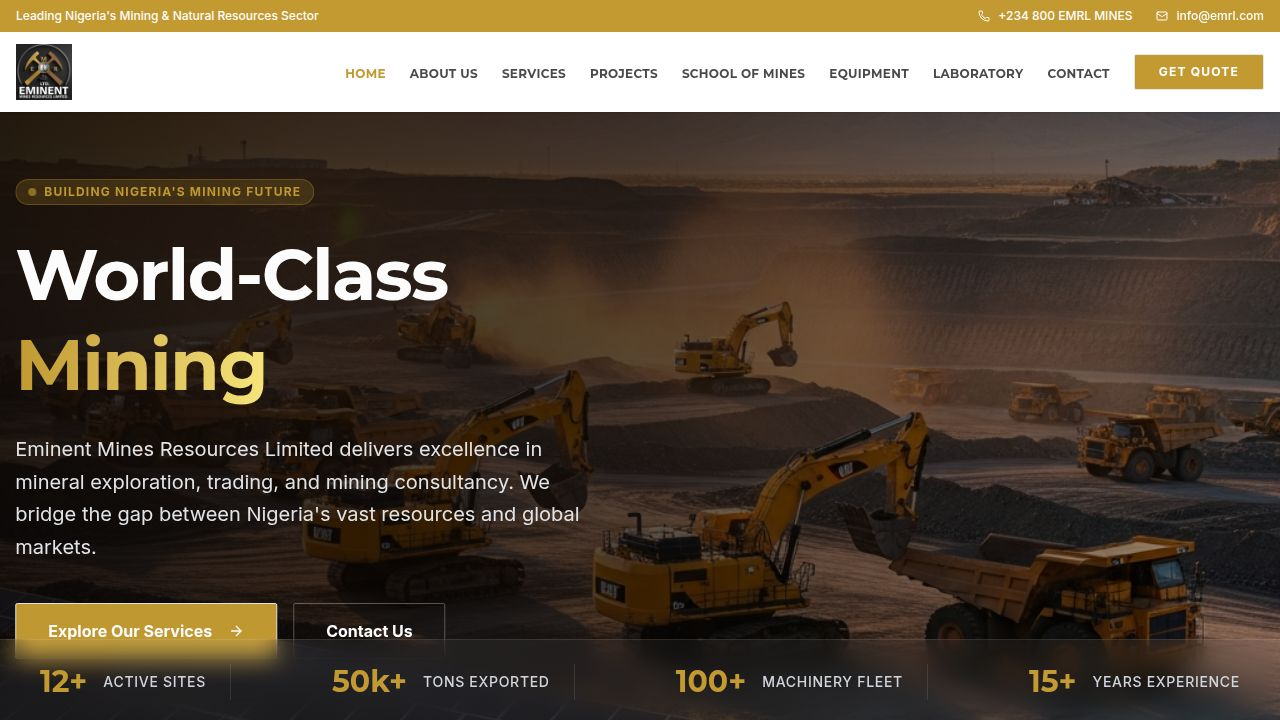
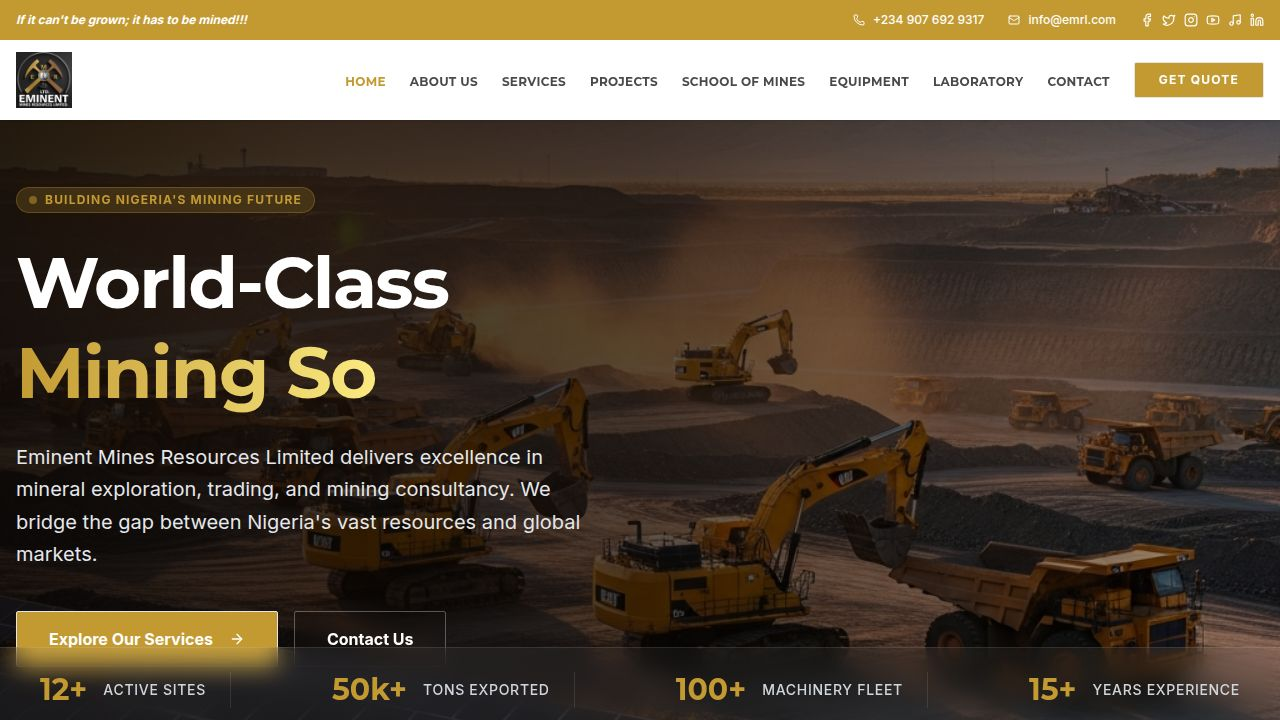
Add explosives management service and update team information
Add a new page for Explosives Management services, update the Home page to include this service, and enhance the About page with a detailed team section. Also, update the Water Engineering image.

Replit-Commit-Author: Agent
Replit-Commit-Session-Id: c283b640-2d67-4469-ac15-ef5560740ef6
Replit-Commit-Checkpoint-Type: full_checkpoint
Replit-Commit-Event-Id: 46e6ac79-3286-4075-8275-21c056ac1e64
Replit-Commit-Screenshot-Url: https://storage.googleapis.com/screenshot-production-us-central1/f175d7f7-50bc-4880-abd5-1b3013c2f9b2/c283b640-2d67-4469-ac15-ef5560740ef6/zpQz2Ew
Replit-Helium-Checkpoint-Created: true

diff --git a/client/src/pages/About.tsx b/client/src/pages/About.tsx
@@ -1,8 +1,60 @@
 import { Navbar } from "@/components/layout/Navbar";
 import { Footer } from "@/components/layout/Footer";
-import { CheckCircle2, User } from "lucide-react";
+import { CheckCircle2 } from "lucide-react";
+import ceoImage from "@assets/Engr._Jamiu_Rasheed_odofin_Founder_CEO_1764980188188.png";
+import ctoImage from "@assets/Mr._Abdullahi_Mahmud_Co-founder_CTOBR&D_1766574911792.png";
+import csoImage1 from "@assets/Engr._Ola_Rokeeb_Co-founder_CSO_(2)_1766574916972.png";
+import cmoImage from "@assets/Engr._Abdulmujeeb_Ramadan_Sodiq_Co-founder_CMO-_1766574924512.png";
+import cloImage from "@assets/Mallam_Abdulazeez_Isa_Co-founder_CLO-removebg-preview_1766574935845.png";
+import cooImage from "@assets/Engr_Ibrahim_Magagi_Abdulbaki_Founder_COO-_1766574928762.png";
+import csoImage2 from "@assets/Engr._Abdulsalam_Abdulrahman_Adeshina_Co-founder_CSO_(2)_1766574946072.png";
 
 export default function About() {
+  const teamMembers = [
+    {
+      name: "Engr. Ibrahim Magagi Abdulbaki",
+      title: "Founder, Chief Operating Officer",
+      role: "COO",
+      image: cooImage,
+      bio: "Visionary leader driving operational excellence and strategic execution across all divisions."
+    },
+    {
+      name: "Mr. Abdullahi Mahmud",
+      title: "Co-founder, Chief Technology Officer",
+      role: "CTO/BR&D",
+      image: ctoImage,
+      bio: "Technology innovator advancing mining solutions through modern geospatial and digital systems."
+    },
+    {
+      name: "Engr. Ola Rokeeb",
+      title: "Co-founder, Chief Sustainability Officer",
+      role: "CSO",
+      image: csoImage1,
+      bio: "Environmental steward ensuring sustainable and responsible mining practices company-wide."
+    },
+    {
+      name: "Engr. Abdulmujeeb Ramadan Sodiq",
+      title: "Co-founder, Chief Marketing Officer",
+      role: "CMO",
+      image: cmoImage,
+      bio: "Strategic marketer building EMRL's presence in Nigerian and international mining markets."
+    },
+    {
+      name: "Mallam Abdulazeez Isa",
+      title: "Co-founder, Chief Legal Officer",
+      role: "CLO",
+      image: cloImage,
+      bio: "Legal expert ensuring regulatory compliance and protecting company interests in all operations."
+    },
+    {
+      name: "Engr. Abdulsalam Abdulrahman Adeshina",
+      title: "Co-founder, Chief Safety Officer",
+      role: "CSO",
+      image: csoImage2,
+      bio: "Safety champion maintaining zero-harm culture and leading occupational health initiatives."
+    }
+  ];
+
   return (
     <div className="min-h-screen flex flex-col font-sans bg-white">
       <Navbar />
@@ -44,19 +96,30 @@ export default function About() {
         </div>
       </section>
 
-      {/* Team Section (Placeholder) */}
+      {/* Team Section */}
       <section className="py-20 bg-zinc-50">
         <div className="container mx-auto px-4">
-          <h2 className="text-3xl font-heading font-bold text-foreground mb-12 text-center">Leadership Team</h2>
-          <div className="grid grid-cols-1 sm:grid-cols-2 lg:grid-cols-4 gap-8">
-            {[1, 2, 3, 4].map((i) => (
-              <div key={i} className="bg-white p-6 rounded-sm shadow-sm text-center group">
-                <div className="w-32 h-32 bg-zinc-200 rounded-full mx-auto mb-6 flex items-center justify-center group-hover:bg-primary/10 transition-colors">
-                  <User className="h-12 w-12 text-zinc-400 group-hover:text-primary" />
+          <div className="max-w-3xl mx-auto text-center mb-16">
+            <h2 className="text-primary font-bold uppercase tracking-widest text-sm mb-4">Leadership</h2>
+            <h3 className="text-3xl md:text-4xl font-heading font-bold text-foreground mb-6">Our Executive Team</h3>
+            <p className="text-muted-foreground text-lg">Experienced professionals dedicated to advancing Nigeria's mining sector with integrity, innovation, and excellence.</p>
+          </div>
+
+          <div className="grid grid-cols-1 sm:grid-cols-2 lg:grid-cols-3 gap-8">
+            {teamMembers.map((member, i) => (
+              <div key={i} className="bg-white rounded-sm shadow-md overflow-hidden group hover:shadow-xl transition-all duration-300 hover:-translate-y-1">
+                <div className="h-64 overflow-hidden bg-zinc-200">
+                  <img 
+                    src={member.image} 
+                    alt={member.name}
+                    className="w-full h-full object-cover group-hover:scale-105 transition-transform duration-500"
+                  />
                 </div>
-                <h4 className="font-bold text-lg text-foreground">Executive Name</h4>
-                <p className="text-sm text-primary font-medium mb-4">Position Title</p>
-                <p className="text-xs text-muted-foreground">Experienced professional with over 15 years in the mining sector.</p>
+                <div className="p-6">
+                  <h4 className="text-lg font-bold font-heading text-foreground mb-1">{member.name}</h4>
+                  <p className="text-sm text-primary font-bold uppercase tracking-widest mb-3">{member.title}</p>
+                  <p className="text-sm text-muted-foreground leading-relaxed">{member.bio}</p>
+                </div>
               </div>
             ))}
           </div>

diff --git a/client/src/pages/Home.tsx b/client/src/pages/Home.tsx
@@ -8,6 +8,8 @@ import machineryImage from "@assets/generated_images/heavy_mining_machinery_flee
 import tradingImage from "@assets/generated_images/raw_minerals_pile_close_up.png";
 import consultancyImage from "@assets/generated_images/nigerian_mining_consultants_in_boardroom.png";
 import schoolImage from "@assets/generated_images/nigerian_mining_students_in_lab.png";
+import waterImage from "@assets/generated_images/water_engineering_borehole_drilling.png";
+import explosivesImage from "@assets/generated_images/cinematic_modern_mining_site_hero_background.png";
 import { Link } from "wouter";
 import { Typewriter } from "@/components/ui/typewriter";
 import { CEOMessage } from "@/components/home/CEOMessage";
@@ -141,9 +143,10 @@ export default function Home() {
               { title: "Mining & Exploration", desc: "Full-scale site development, pit optimization, and mineral extraction.", img: heroImage, link: "/services/mining-quarry" },
               { title: "Mineral Trading", desc: "Sourcing and exporting high-purity Lead, Zinc, Lithium, and Gold.", img: tradingImage, link: "/services/mineral-trading" },
               { title: "Equipment Leasing", desc: "Heavy-duty excavators, crushers, and drilling rigs for rent.", img: machineryImage, link: "/services/machinery-fabrication" },
-              { title: "Water Engineering", desc: "Borehole drilling, hydrological surveys, and water treatment.", img: explorationImage, link: "/services/water-engineering" },
+              { title: "Water Engineering", desc: "Borehole drilling, hydrological surveys, and water treatment.", img: waterImage, link: "/services/water-engineering" },
               { title: "Mining Consultancy", desc: "Regulatory compliance, licensing, and feasibility studies.", img: consultancyImage, link: "/services/consultancy" },
               { title: "School of Mines", desc: "Professional training and certification for the next generation.", img: schoolImage, link: "/school" },
+              { title: "Explosives Management", desc: "Secure storage, handling, and supply of mining explosives and blasting materials.", img: explosivesImage, link: "/services/explosives-management" },
             ].map((service, i) => (
               <div key={i} className="group bg-white rounded-sm border border-border overflow-hidden hover:shadow-lg transition-all duration-300 hover:-translate-y-1">
                 <div className="h-48 overflow-hidden">
@@ -154,7 +157,7 @@ export default function Home() {
                   <p className="text-muted-foreground mb-6 text-sm leading-relaxed">{service.desc}</p>
                   <Link href={service.link}>
                     <a className="inline-flex items-center text-sm font-bold text-primary hover:text-primary/80 uppercase tracking-wide">
-                      Learn More <ArrowRight className="ml-2 h-4 w-4" />
+                      View Details <ArrowRight className="ml-2 h-4 w-4" />
                     </a>
                   </Link>
                 </div>
@@ -177,13 +180,13 @@ export default function Home() {
           </p>
           <div className="flex flex-col sm:flex-row gap-4 justify-center">
             <Link href="/contact">
-              <Button size="lg" className="bg-white text-primary hover:bg-gray-100 font-bold text-base px-10 h-14 shadow-xl border-0">
-                Request a Quote
+              <Button className="bg-white text-primary hover:bg-white/90 font-bold text-base px-8 h-12 w-full sm:w-auto">
+                Get Started Today
               </Button>
             </Link>
-            <Link href="/membership">
-              <Button variant="outline" size="lg" className="border-white text-white hover:bg-white/10 font-bold text-base px-10 h-14">
-                Join Our Network
+            <Link href="/about">
+              <Button variant="outline" className="border-white/30 text-white hover:bg-white/10 font-bold text-base px-8 h-12 backdrop-blur-sm w-full sm:w-auto">
+                Learn More
               </Button>
             </Link>
           </div>

diff --git a/client/src/pages/services/ExplosivesManagement.tsx b/client/src/pages/services/ExplosivesManagement.tsx
@@ -1,0 +1,39 @@
+import { ServiceLayout } from "@/components/layout/ServiceLayout";
+import heroImage from "@assets/generated_images/cinematic_modern_mining_site_hero_background.png";
+
+export default function ExplosivesManagement() {
+  return (
+    <ServiceLayout
+      title="Explosives Management & Mining Magazine Services"
+      subtitle="Secure and compliant solutions for storage, handling, and management of mining explosives."
+      heroImage={heroImage}
+      overview="EMRL operates a secure, regulated, and fully compliant mining magazine facility for storing and managing explosives used in blasting operations. We provide comprehensive explosive management services including licensed storage, inventory control, safe transportation, and supply of blasting accessories, all in compliance with Nigeria's Explosives Act and global blasting standards."
+      features={[
+        "Licensed Mining Magazine (Explosives Depot)",
+        "Secure Storage of Explosives & Accessories",
+        "Explosive Inventory Management & Tracking",
+        "Safe Explosive Transportation Services",
+        "Supply of Blasting Accessories",
+        "Explosives Safety & Compliance Training"
+      ]}
+      whyChooseUs={[
+        { title: "Licensed Facility", desc: "Purpose-built, secure magazine compliant with all regulatory requirements." },
+        { title: "Digital Tracking", desc: "Complete inventory control with intake, withdrawal, and authorization logs." },
+        { title: "Expert Team", desc: "Trained personnel certified in explosive handling and safety management." },
+        { title: "Regulatory Excellence", desc: "100% compliance with Nigeria's Explosives Act and federal standards." }
+      ]}
+      methodology={[
+        { title: "Facility Security", desc: "Purpose-built, fortified storage facility for all classes of explosives." },
+        { title: "Inventory Control", desc: "Digitized tracking of stock intake, withdrawals, daily logs, and personnel authorization." },
+        { title: "Safe Transportation", desc: "Escort-secured and government-approved movement of explosives to mining sites." },
+        { title: "Regulatory Support", desc: "Assistance in obtaining approvals from Ministry of Mines, Nigeria Police EOD, Federal Ministry of Environment, SSS, and Civil Defence." }
+      ]}
+      faqs={[
+        { question: "What explosives do you store?", answer: "We store all approved mining explosives including dynamites, cordtex, gelatin, ANFO, and detonators." },
+        { question: "Do you offer blasting training?", answer: "Yes, we provide comprehensive safety training for blasters, supervisors, and field operators." },
+        { question: "How is safety ensured?", answer: "We maintain strict security protocols, regular inspections, and full compliance with Nigeria's Explosives Act." },
+        { question: "Can you supply blasting materials?", answer: "Yes, we supply high-quality detonators, cordtex, boosters, ANFO, safety fuses, and electric detonators." }
+      ]}
+    />
+  );
+}

diff --git a/client/src/App.tsx b/client/src/App.tsx
@@ -21,6 +21,7 @@ import WaterEngineering from "@/pages/services/WaterEngineering";
 import MineralTrading from "@/pages/services/MineralTrading";
 import MiningMachinery from "@/pages/services/MiningMachinery";
 import MiningConsultancy from "@/pages/services/MiningConsultancy";
+import ExplosivesManagement from "@/pages/services/ExplosivesManagement";
 
 function Router() {
   return (
@@ -42,6 +43,7 @@ function Router() {
       <Route path="/services/mineral-trading" component={MineralTrading} />
       <Route path="/services/machinery-fabrication" component={MiningMachinery} />
       <Route path="/services/consultancy" component={MiningConsultancy} />
+      <Route path="/services/explosives-management" component={ExplosivesManagement} />
       
       <Route component={NotFound} />
     </Switch>

diff --git a/client/src/pages/services/WaterEngineering.tsx b/client/src/pages/services/WaterEngineering.tsx
@@ -1,5 +1,5 @@
 import { ServiceLayout } from "@/components/layout/ServiceLayout";
-import heroImage from "@assets/generated_images/water_borehole_drilling_operation.png";
+import heroImage from "@assets/generated_images/water_engineering_borehole_drilling.png";
 
 export default function WaterEngineering() {
   return (
